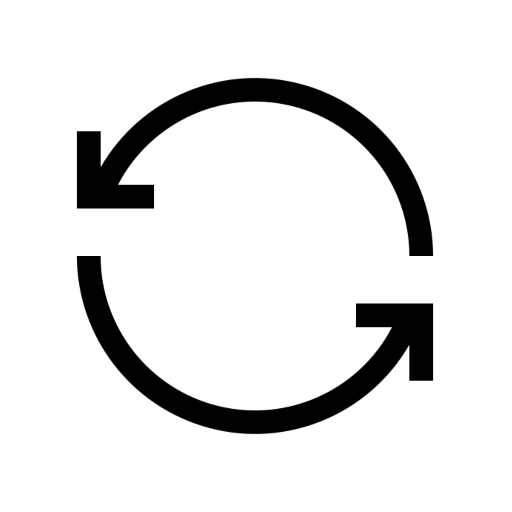
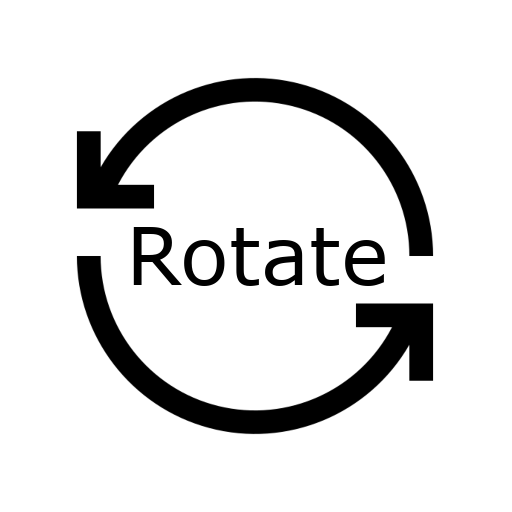
work in progress

Changed region(s): [[0.25, 0.4375, 0.75, 0.5625]]

diff --git a/frontend/main.js b/frontend/main.js
@@ -1,6 +1,7 @@
 const baseURL = 'http://localhost:3001';
 const Board = '/board';
-const Move = '/move'
+const Move = '/move';
+const cpuMove = '/cpumove';
 
 const intoAlphabetic = (number) => {
     return String.fromCharCode(number + 96);
@@ -13,6 +14,20 @@ const intoNumber = (letter) => {
 const isEven = (number) => {
     return Number.isInteger(number / 2);
 };
+
+const getOppositeColor = (pieceColor) => {
+    if (pieceColor === 'w') {
+        return 'b';
+    } else {
+        return 'w';
+    };
+};
+
+let gameVsCpuAs = false;
+
+let cpuTurn = false;
+
+const moveEvent = new Event('moveEvent');
 
 const inputRow = document.getElementById("inputRow");
 
@@ -56,6 +71,7 @@ const makeMove = async (object) => {
             },
             body: bodyJSON
         });
+        document.dispatchEvent(moveEvent);
     } catch (error) {
         console.log(error);
     }
@@ -169,16 +185,18 @@ const handleClicks = async (x, y) => {
             return false;
         } else {
             const data = await getLegalMovesOfSpecificPiece(x, y);
-            for (let index = 0; index < data.length; index++) {
-                const xAlphabet = intoAlphabetic(data[index][0]);
-                const legalSquare = document.getElementById(xAlphabet + data[index][1]);
-                legalSquare.style.boxShadow = 'inset 0 0 0 2px red';
-                
-                if (legalSquare.isLegal) {
-                    legalSquare.isLegal.push(data[index]);
-                } else {
-                    legalSquare.isLegal = [data[index]];
-                }  
+            if (!cpuTurn) {
+                for (let index = 0; index < data.length; index++) {
+                    const xAlphabet = intoAlphabetic(data[index][0]);
+                    const legalSquare = document.getElementById(xAlphabet + data[index][1]);
+                    legalSquare.style.boxShadow = 'inset 0 0 0 2px red';
+                    
+                    if (legalSquare.isLegal) {
+                        legalSquare.isLegal.push(data[index]);
+                    } else {
+                        legalSquare.isLegal = [data[index]];
+                    }  
+                };
             };
         };
     };
@@ -200,11 +218,13 @@ const addEventListeners = () => {
     }
 };
 
-const updateBoard = async () => {
+const updateBoard = async (response) => {
     try {
-        const response = await fetch(baseURL + Board, {
-            method: 'GET'
-        });
+        if (!response) { 
+            response = await fetch(baseURL + Board, {
+                method: 'GET'
+            });
+        }
         const data = await response.json();
 
         for (let y = 1; y <= 8; y++) {
@@ -256,14 +276,12 @@ const updateBoard = async () => {
             inputRow.appendChild(playAgainButton);
 
             inputRow.endOfGame = message;
+
+            gameVsCpuAs = false;
         };
     } catch (error) {
         console.log(error);
     } ;
-};
-
-const startGameVsCpu = () => {
-    console.log('Future Feature');
 };
 
 const rotateBoard = () => {
@@ -289,12 +307,6 @@ const rotateBoard = () => {
             const newLetter = intoAlphabetic(getOppositeNumber(intoNumber(currentSquare.id[0])));
             const newNumber = getOppositeNumber(currentSquare.id[1]);
 
-            if (currentSquare.className === 'lightSquare') {
-                currentSquare.className = 'darkSquare';
-            } else {
-                currentSquare.className = 'lightSquare';
-            }
-
             currentSquare.id = `${newLetter}${newNumber}`;
         }
     }
@@ -302,12 +314,71 @@ const rotateBoard = () => {
     updateBoard();
 };
 
+const waitForCpuMove = async (color) => {
+    const response = await fetch(baseURL + Board + cpuMove + '/' + color, {
+        method: 'GET'
+    });
+    cpuTurn = false;
+    await updateBoard(response);
+    if (gameVsCpuAs) {
+        waitForHumanMove();
+    };
+};
+
+const waitForHumanMove = (color) => {
+    if (gameVsCpuAs) {
+        cpuTurn = true;
+        waitForCpuMove(color);
+    };
+};
+
+const startGameVsCpu = async (color) => {
+    resetBoard();
+    gameVsCpuAs = color;
+
+    if (color === 'w') {
+        if (flipped) {
+            rotateBoard();
+        }
+    } else {
+        if (!flipped) {
+            cpuTurn = true;
+            rotateBoard();
+            const response = await fetch(baseURL + Board + cpuMove + '/' + getOppositeColor(color), {
+                method: 'GET'
+            });
+            cpuTurn = false;
+            updateBoard(response);
+        }
+    };
+
+    document.addEventListener('moveEvent', () => {waitForHumanMove(getOppositeColor(color))});
+};
+
+const confirmGameVsCpu = () => {
+    inputRow.innerHTML = 'What color would you like to play?';
+
+    const chooseWhite = document.createElement('img');
+    const chooseBlack = document.createElement('img');
+
+    chooseWhite.src = './assets/chess_pieces_set_0/' + 'white/wK.webp';
+    chooseBlack.src = './assets/chess_pieces_set_0/' + 'black/bK.webp';
+
+    chooseWhite.addEventListener('click', () => {startGameVsCpu('w')});
+    chooseBlack.addEventListener('click', () => {startGameVsCpu('b')});
+
+    inputRow.appendChild(chooseWhite);
+    inputRow.appendChild(chooseBlack);
+};
+
 const addControlColumnEventListeners = () => {
     const btnCpu = document.getElementById('btnCpu')
     const btnRotate = document.getElementById('btnRotate');
+    const btnReset = document.getElementById('btnReset');
 
-    btnCpu.addEventListener('click', startGameVsCpu);
+    btnCpu.addEventListener('click', confirmGameVsCpu);
     btnRotate.addEventListener('click', rotateBoard);
+    btnReset.addEventListener('click', resetBoard);
 };
 
 async function resetBoard() {
@@ -318,6 +389,8 @@ async function resetBoard() {
         await updateBoard();
         inputRow.endOfGame = false;
         clearInputRow();
+        gameVsCpuAs = false;
+        cpuTurn = false;
     } catch (error) {
         console.log(error);
     };
@@ -326,5 +399,3 @@ async function resetBoard() {
 await updateBoard();
 addEventListeners();
 addControlColumnEventListeners();
-
-

diff --git a/engine/board_router.js b/engine/board_router.js
@@ -7,6 +7,10 @@ const {
     makeMove
  } = require('./game.js');
 
+ const {
+    makeCpuMove
+ } = require('./engine.js')
+
  board_router.param('x', (req, res, next, x) => {
     const xNumber = x.charCodeAt(0) - 96;
     if ( xNumber >= 1 && xNumber <= 8 ) {
@@ -27,7 +31,21 @@ board_router.param('y', (req, res, next, y) => {
     
 });
 
+board_router.param('color', (req, res, next, color) => {
+    if (color === 'w' || color === 'b') {
+        req.color = color;
+        next();
+    } else {
+        return res.status(404).send("this color doesn't exist.");
+    }
+});
+
 board_router.get('/' ,(req, res, next) => {
+    res.status(200).send({ board: game.board, endOfGame: game.endOfGame });
+});
+
+board_router.get('/cpumove/:color', (req, res, next) => {
+    makeCpuMove(req.color);
     res.status(200).send({ board: game.board, endOfGame: game.endOfGame });
 });
 

diff --git a/frontend/index.html b/frontend/index.html
@@ -113,8 +113,9 @@
                     </div>
                 </div>
                 <div class = "outsideColumn" id = "controlColumn">
-                    <img src = "./assets/buttons_set_0/rotate_icon.png" alt = "rotate the board" id = "btnRotate">
-                    <img src = "./assets/buttons_set_0/cpu_icon.png" alt = "play against an engine" id = "btnCpu">
+                    <img src = "./assets/buttons_set_0/rotate_icon.png" alt = "rotate the board" title = "rotate the board" id = "btnRotate">
+                    <img src = "./assets/buttons_set_0/reset_icon.png" alt = "reset the board" title = "reset the board" id = "btnReset">
+                    <img src = "./assets/buttons_set_0/cpu_icon.png" alt = "play against an engine" title = "play against an engine" id = "btnCpu">
                 </div>
             </div>
         </div>

diff --git a/engine/engine.js b/engine/engine.js
@@ -1,3 +1,31 @@
+const {
+    game
+} = require('./game.js')
 
+const randomMove = (moveArray) => {
+    const index = Math.floor(Math.random() * moveArray.length);
+    return moveArray[index];
+};
 
-module.exports = {};
+const makeCpuMove = (color) => {
+    (async () => {
+        console.log("Start der IIFE...");
+
+        // Die Pause (10 Sekunden) verpackt in ein Promise
+        await new Promise(resolve => setTimeout(resolve, 10000));
+
+        let possibleMovesList = game.legalMovesWhite;
+        if (color === 'b') {
+            possibleMovesList = game.legalMovesBlack;
+        };
+
+        console.log(possibleMovesList);
+
+        const nextMove = randomMove(possibleMovesList);
+
+        game.makeMove(nextMove);
+
+    })();
+};
+
+module.exports = { makeCpuMove };

diff --git a/engine/board/board.js b/engine/board/board.js
@@ -20,7 +20,8 @@ const {
 } = require("./pieceSwitch.js");
 
 const {
-    is3TimeRepetition
+    is3TimeRepetition,
+    reset3TimeRepetition
 } = require("./repetitionCheck.js");
 
 class board {
@@ -87,6 +88,8 @@ class board {
         this.moveCount = 0;
         this.ruleCount50 = 0;
         this.endOfGame = false;
+
+        reset3TimeRepetition();
     }
 
     countLegal(color) {

diff --git a/engine/board/repetitionCheck.js b/engine/board/repetitionCheck.js
@@ -27,4 +27,9 @@ const is3TimeRepetition = (currentBoard) => {
     return false;
 }
 
-module.exports = { is3TimeRepetition }
+const reset3TimeRepetition = () => {
+    unique.splice(0, unique.length);
+    double.splice(0, double.length);
+};
+
+module.exports = { is3TimeRepetition, reset3TimeRepetition }

diff --git a/README.md b/README.md
@@ -21,7 +21,8 @@ My goal is to build a fully functional Chess engine in JavaScript utilizing REST
 + shows a play again button if the game ended, by a win for white or black or a draw and displays the reason why the game ended
 + highlights every legal move, when a piece was clicked
 + Sends the move to the backend if a highlighted square was clicked on
-+ rotating the board 
++ rotating the board
++ resetting the board
 
 ## How To Start?
 

diff --git a/note.md b/note.md
@@ -1,0 +1,5 @@
+# 2 issues #
+
+1. not blocking when CPU's turn
+
+2. not making a move because array with objects, needs to go to array.move
